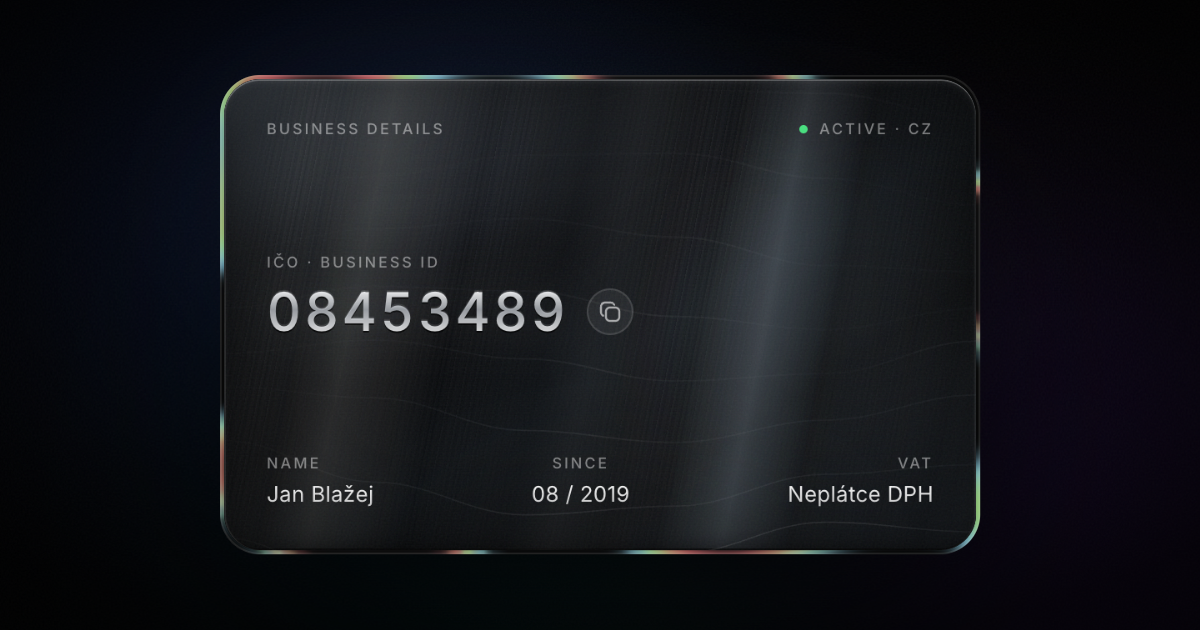
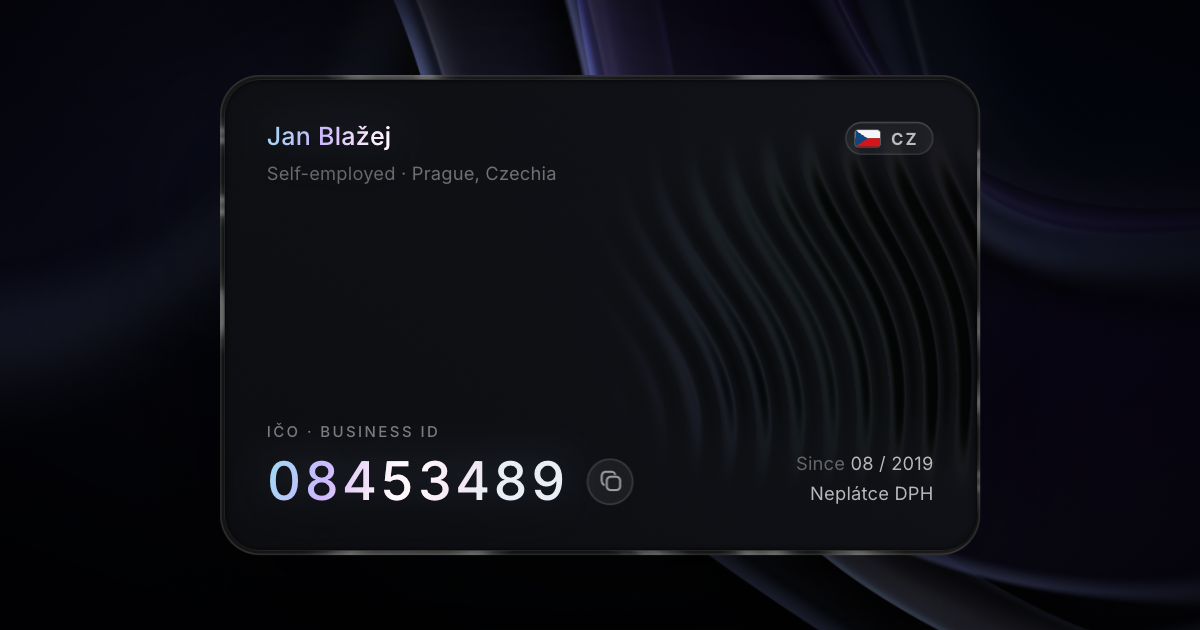
chore: Render the ICO social preview from the new card

diff --git a/src/app/ico/page.tsx b/src/app/ico/page.tsx
@@ -7,7 +7,8 @@ import {AmbientWaves} from '@/scene/ambient/AmbientWaves'
 
 /**
  * A headless render of the live card itself, so the social preview keeps the
- * frosted glass, the waves and the metal ring that CSS-in-SVG can't reproduce.
+ * WebGL plate, the holographic type and the metal ring that CSS-in-SVG can't
+ * reproduce.
  * To refresh it, screenshot /ico in a 720×378 viewport at a 1.667 device pixel
  * ratio with everything below the card hidden, emulating reduced motion and
  * keeping the pointer off the card — that renders it flat and unhovered. The
